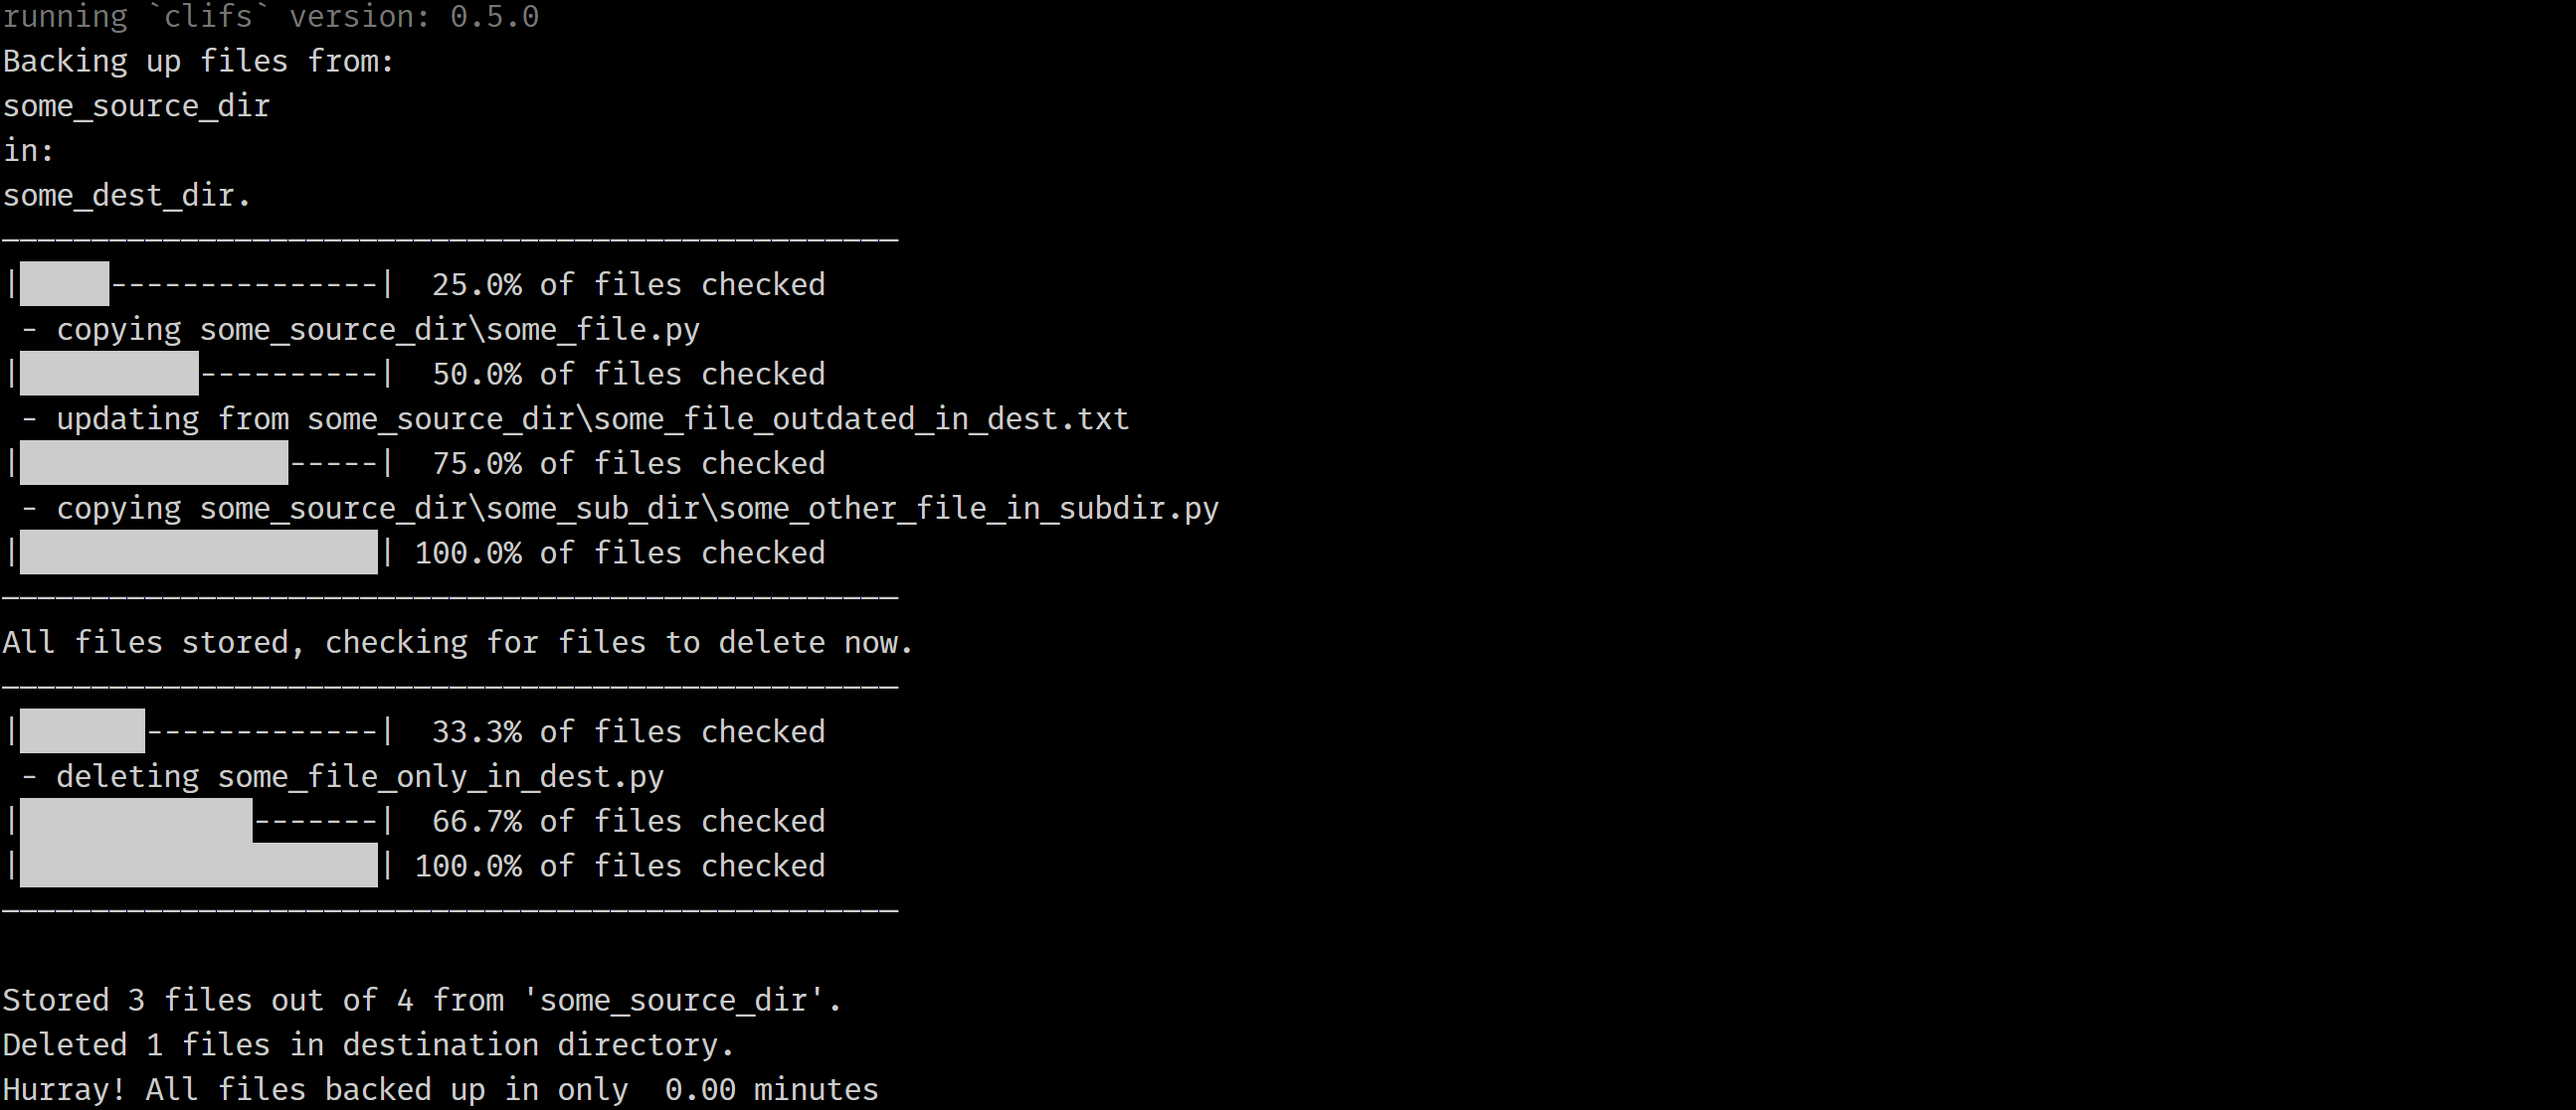
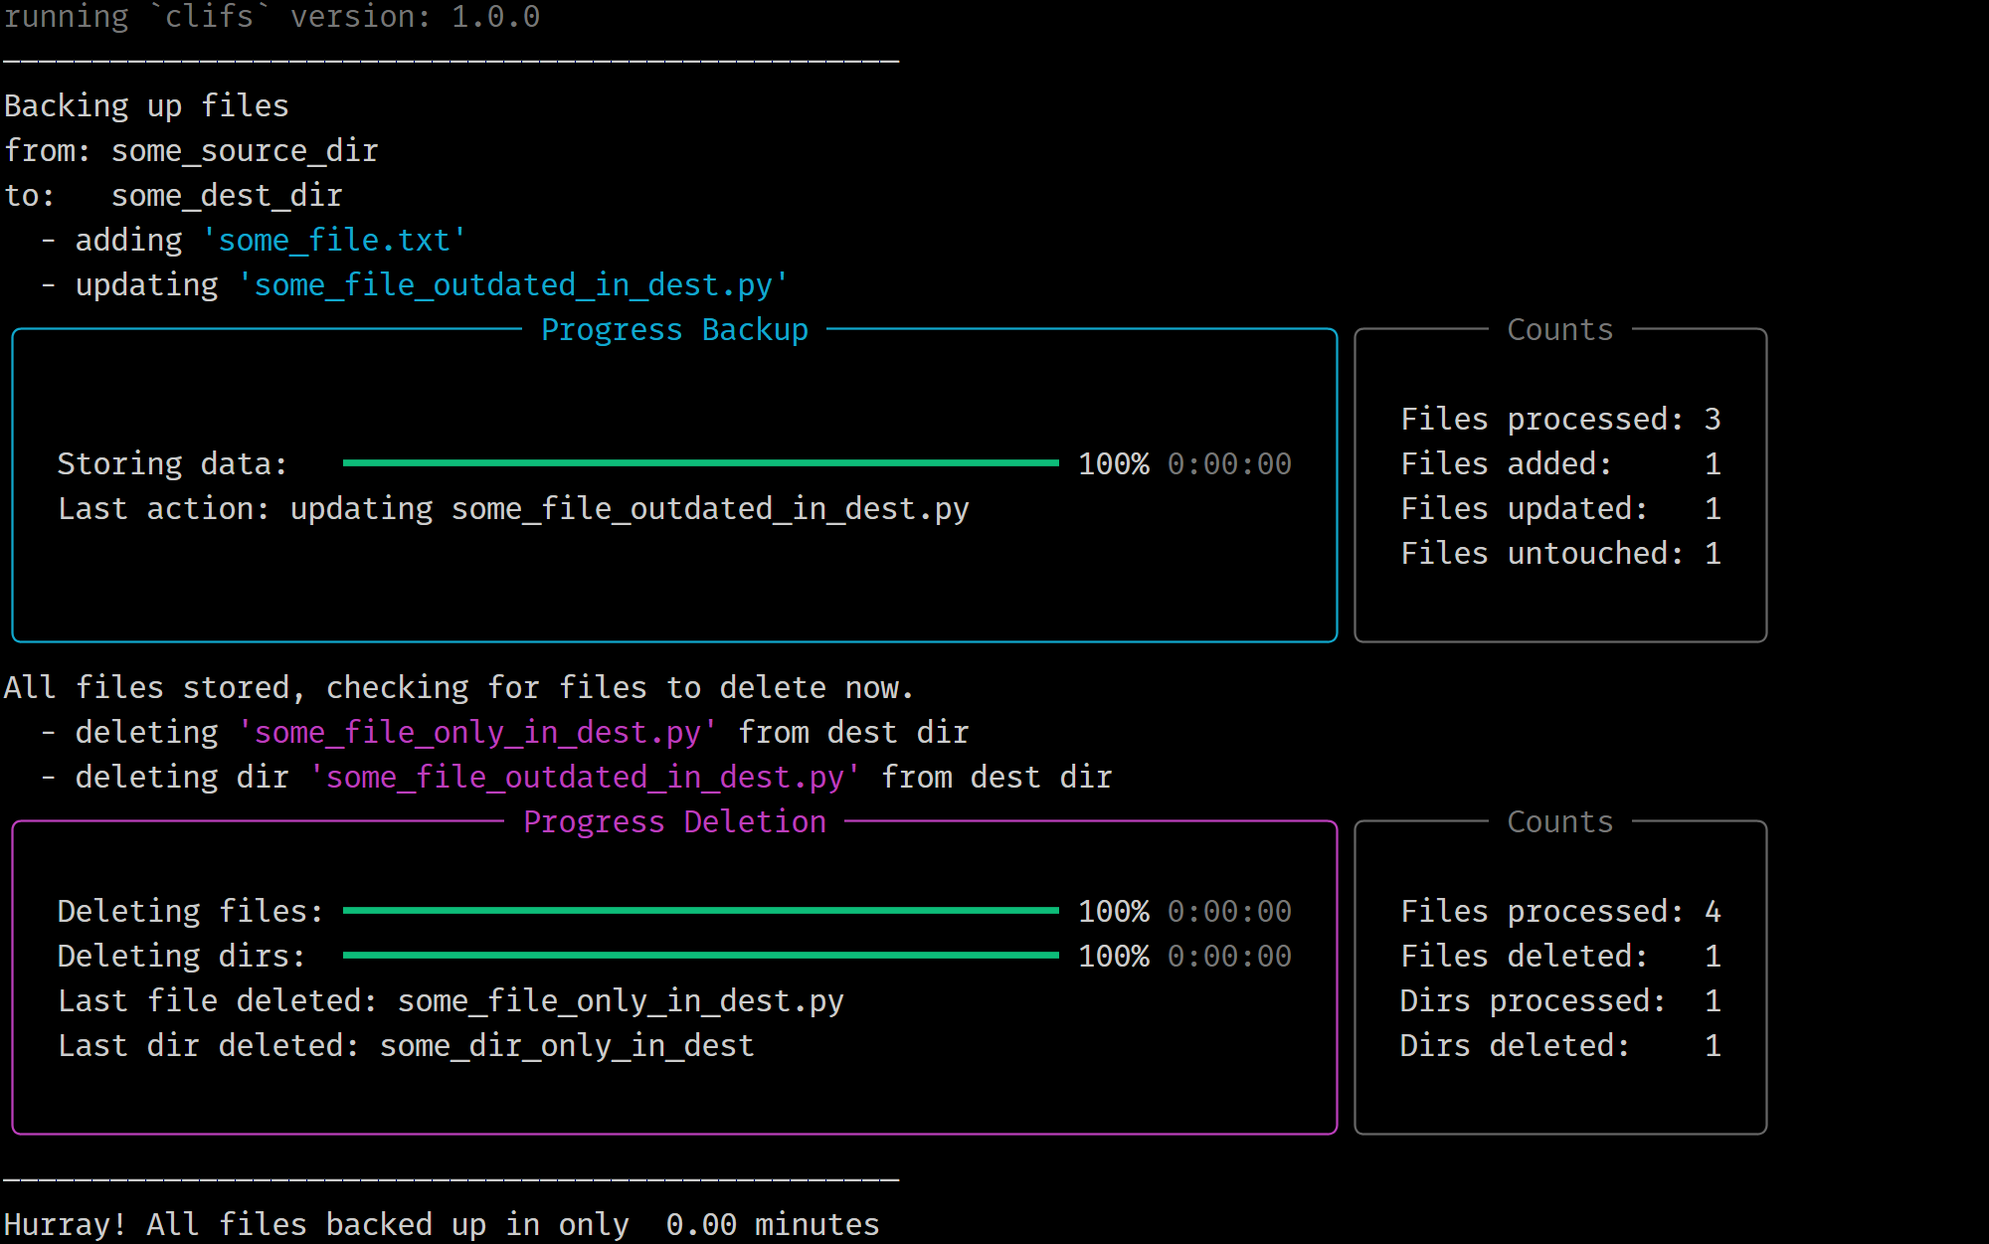
feat: verbose reporting

diff --git a/clifs/plugins/backup/backup.py b/clifs/plugins/backup/backup.py
@@ -119,6 +119,7 @@ class FileSaver(ClifsPlugin):
     dir_dest: Path
     config_file: Path
     delete: bool
+    verbose: bool
     dry_run: bool
 
     @staticmethod
@@ -151,6 +152,13 @@ class FileSaver(ClifsPlugin):
             ),
         )
         parser.add_argument(
+            "-v",
+            "--verbose",
+            action="store_true",
+            default=False,
+            help="Report on every action to stdout.",
+        )
+        parser.add_argument(
             "-dr",
             "--dry_run",
             action="store_true",
@@ -163,6 +171,7 @@ class FileSaver(ClifsPlugin):
         self.dir_dest: Optional[Path] = args.dir_dest
         self.cfg_file: Optional[Path] = args.cfg_file
         self.delete: bool = args.delete
+        self.verbose: bool = args.verbose
         self.dry_run: bool = args.dry_run
 
         assert not (
@@ -205,7 +214,7 @@ class FileSaver(ClifsPlugin):
         dir_dest: Path,
     ) -> None:
         print_line()
-        print(f"Backing up files from:\n    {dir_source}\nin:\n    {dir_dest}.")
+        print(f"Backing up files \nfrom: {dir_source}\nto:   {dir_dest}")
 
         files_source, dirs_source = list_filedirs(dir_source)
         self.copy_data(
@@ -272,7 +281,7 @@ class FileSaver(ClifsPlugin):
                 padding=(1, 2),
             ),
         )
-        with Live(progress_table, refresh_per_second=5, console=CONSOLE):
+        with Live(progress_table, refresh_per_second=5, console=CONSOLE) as live:
             for cur_file in files_source:
                 progress["counts"].advance(tasks["count_files_found"])
                 action = conditional_copy(
@@ -289,6 +298,8 @@ class FileSaver(ClifsPlugin):
                         progress["counts"].advance(tasks["count_files_added"])
                     elif action == "updating":
                         progress["counts"].advance(tasks["count_files_updated"])
+                    if self.verbose:
+                        live.console.print(f"  - {action} [cyan]'{cur_file.name}'[/]")
                 else:
                     progress["counts"].advance(tasks["count_files_untouched"])
                 progress["overall"].advance(tasks["progress_backup"])
@@ -358,7 +369,7 @@ class FileSaver(ClifsPlugin):
             ),
         )
 
-        with Live(progress_table, refresh_per_second=5, console=CONSOLE):
+        with Live(progress_table, refresh_per_second=5, console=CONSOLE) as live:
             for cur_file_dest in files_dest:
                 progress["counts"].advance(tasks_delete["count_files_found"])
                 action = conditional_delete(
@@ -373,6 +384,11 @@ class FileSaver(ClifsPlugin):
                         tasks_delete["progress_delete_files"],
                         last_action=cur_file_dest.name,
                     )
+                    if self.verbose:
+                        live.console.print(
+                            f"  - deleting [magenta]'{cur_file_dest.name}'[/] from dest dir"
+                        )
+
                 progress["overall"].advance(tasks_delete["progress_delete_files"])
 
             for cur_dir_dest in dirs_dest:
@@ -389,4 +405,8 @@ class FileSaver(ClifsPlugin):
                         tasks_delete["progress_delete_folders"],
                         last_action=cur_dir_dest.name,
                     )
+                    if self.verbose:
+                        live.console.print(
+                            f"  - deleting dir [magenta]'{cur_file_dest.name}'[/] from dest dir"
+                        )
                 progress["overall"].advance(tasks_delete["progress_delete_folders"])

diff --git a/README.md b/README.md
@@ -125,7 +125,7 @@ Type `clifs backup --help` for a full list of options.
 Command:
 
 ```powershell
-clifs backup --dir_source ".\some_source_dir" --dir_dest ".\some_dest_dir" --delete
+clifs backup --dir_source ".\some_source_dir" --dir_dest ".\some_dest_dir" --delete --verbose
 ```
 
 Output:

diff --git a/CHANGELOG.md b/CHANGELOG.md
@@ -4,6 +4,7 @@
 
 - backup:
   - nicer reporting using rich
+  - add `--verbose` option to print all actions to stdout
   - some refactoring
 - ci:
   - add creation of github release to release pipeline
